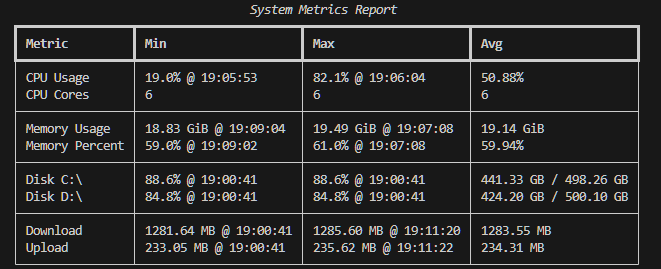
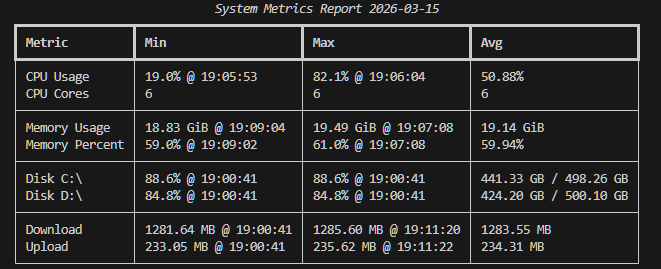
made the report table display the date

diff --git a/src/display.py b/src/display.py
@@ -17,14 +17,14 @@ def render(get_metrics: Callable, args: tuple = None) -> None:
             live.update(table)
             time.sleep(1)
             
-def print_data(data: dict) -> None:
+def print_data(data: dict, date: str) -> None:
     """Prints given data in a readable format"""
     console = Console()
-    console.print(create_report_table(data))
+    console.print(create_report_table(data, date))
             
-def create_report_table(data: dict) -> Table:
+def create_report_table(data: dict, date: str) -> Table:
     """Creates a table displaying min, max, and avg stats from a report"""
-    table = Table(title="System Metrics Report")
+    table = Table(title=f"System Metrics Report {date}")
     table.add_column("Metric")
     table.add_column("Min")
     table.add_column("Max")

diff --git a/src/main.py b/src/main.py
@@ -67,7 +67,7 @@ def main():
     
     if date:
         data = get_by_date(log_path, date)
-        print_data(data)
+        print_data(data, date)
     
     logger = Logger(log_path) 
     
